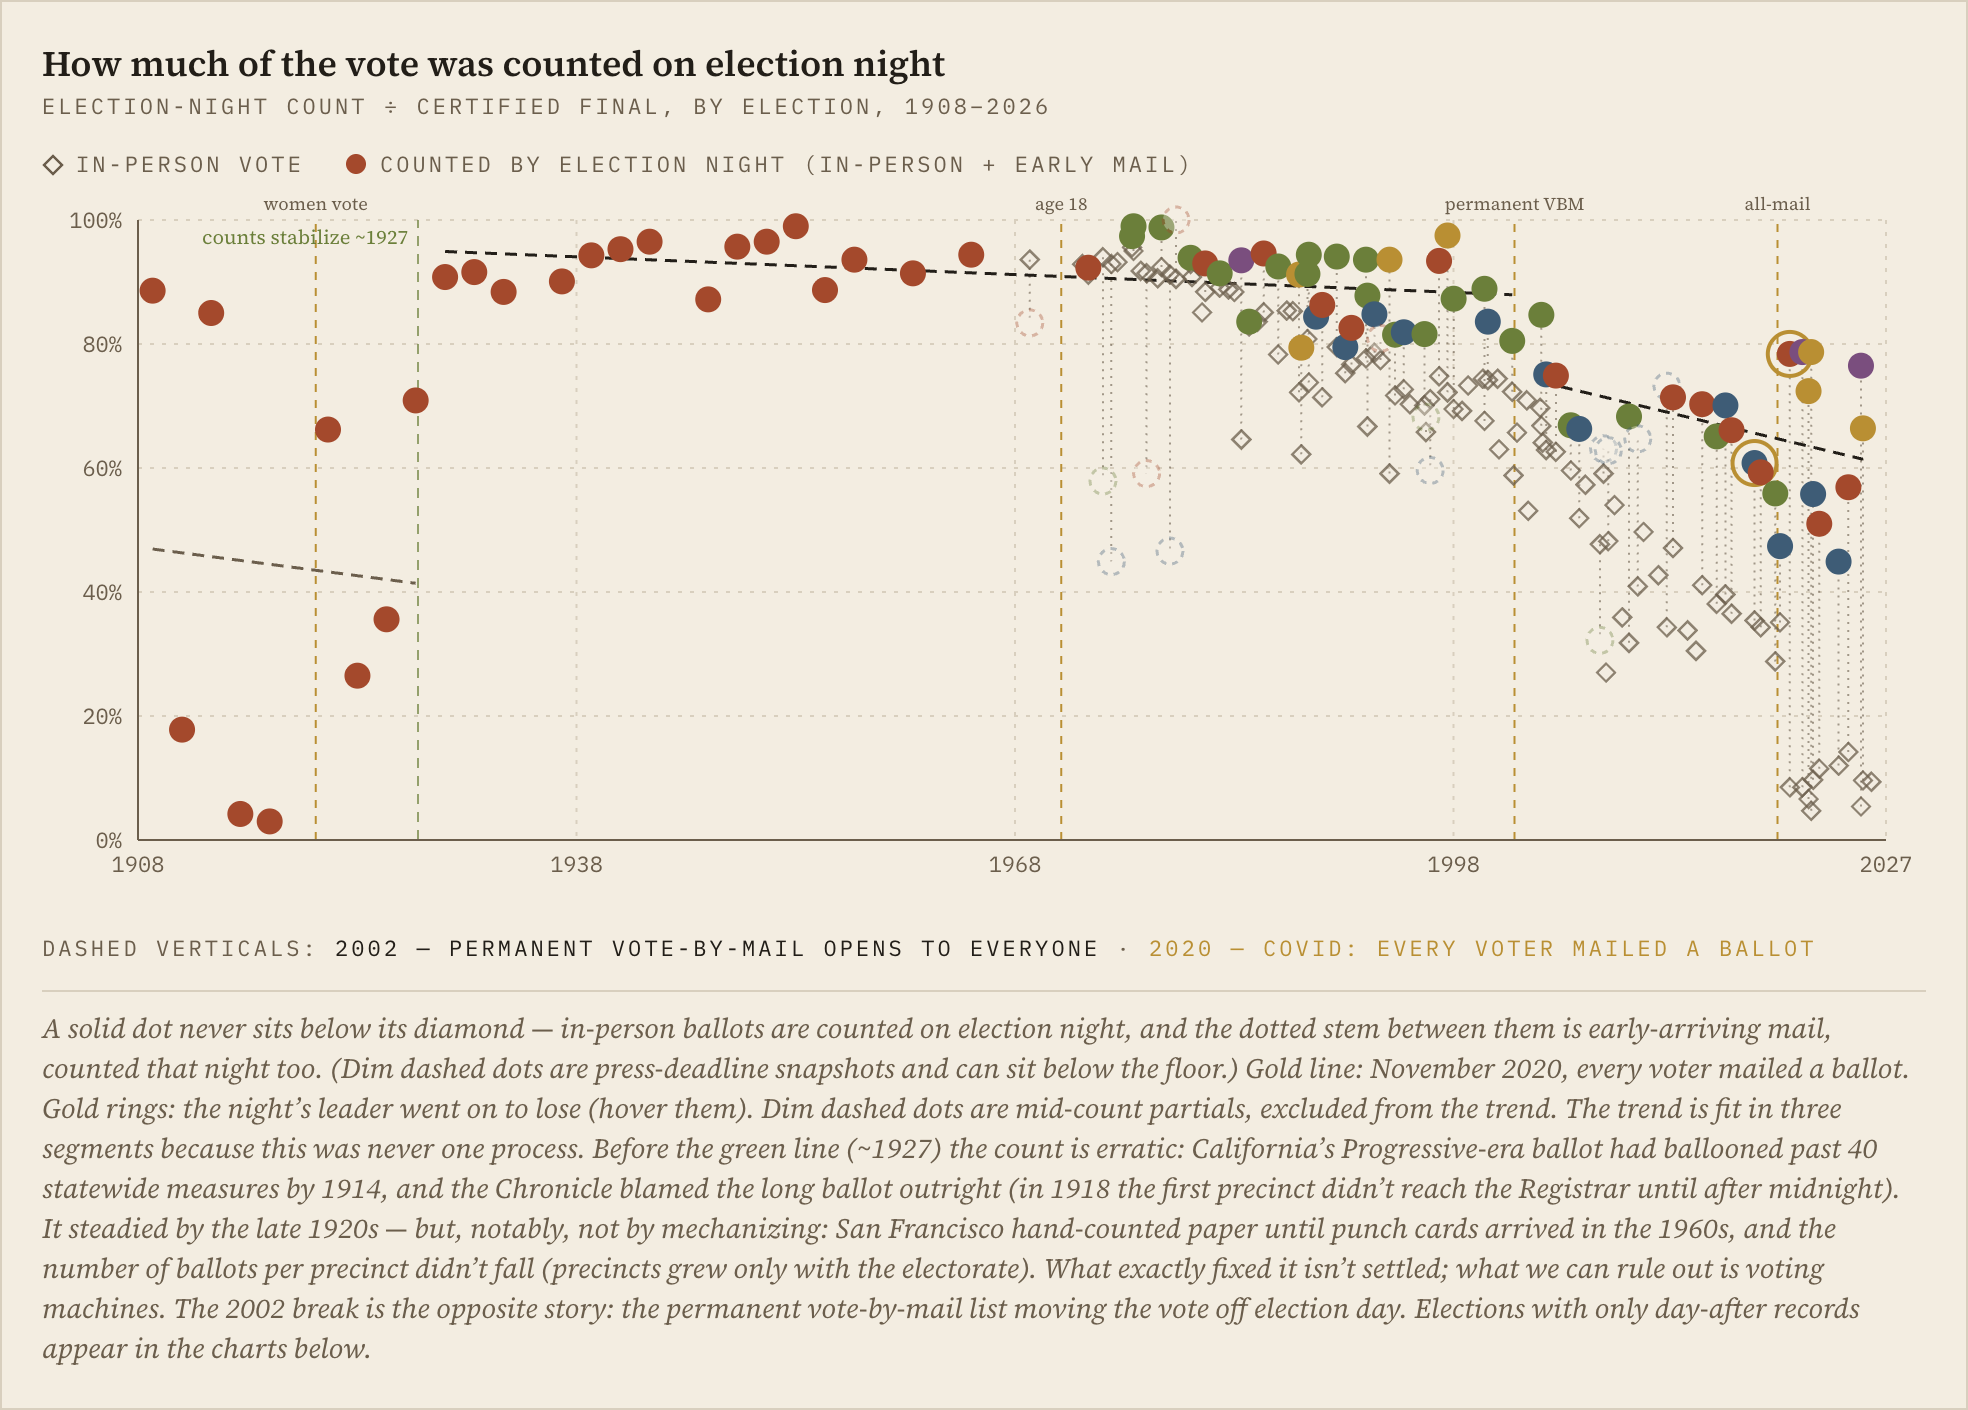
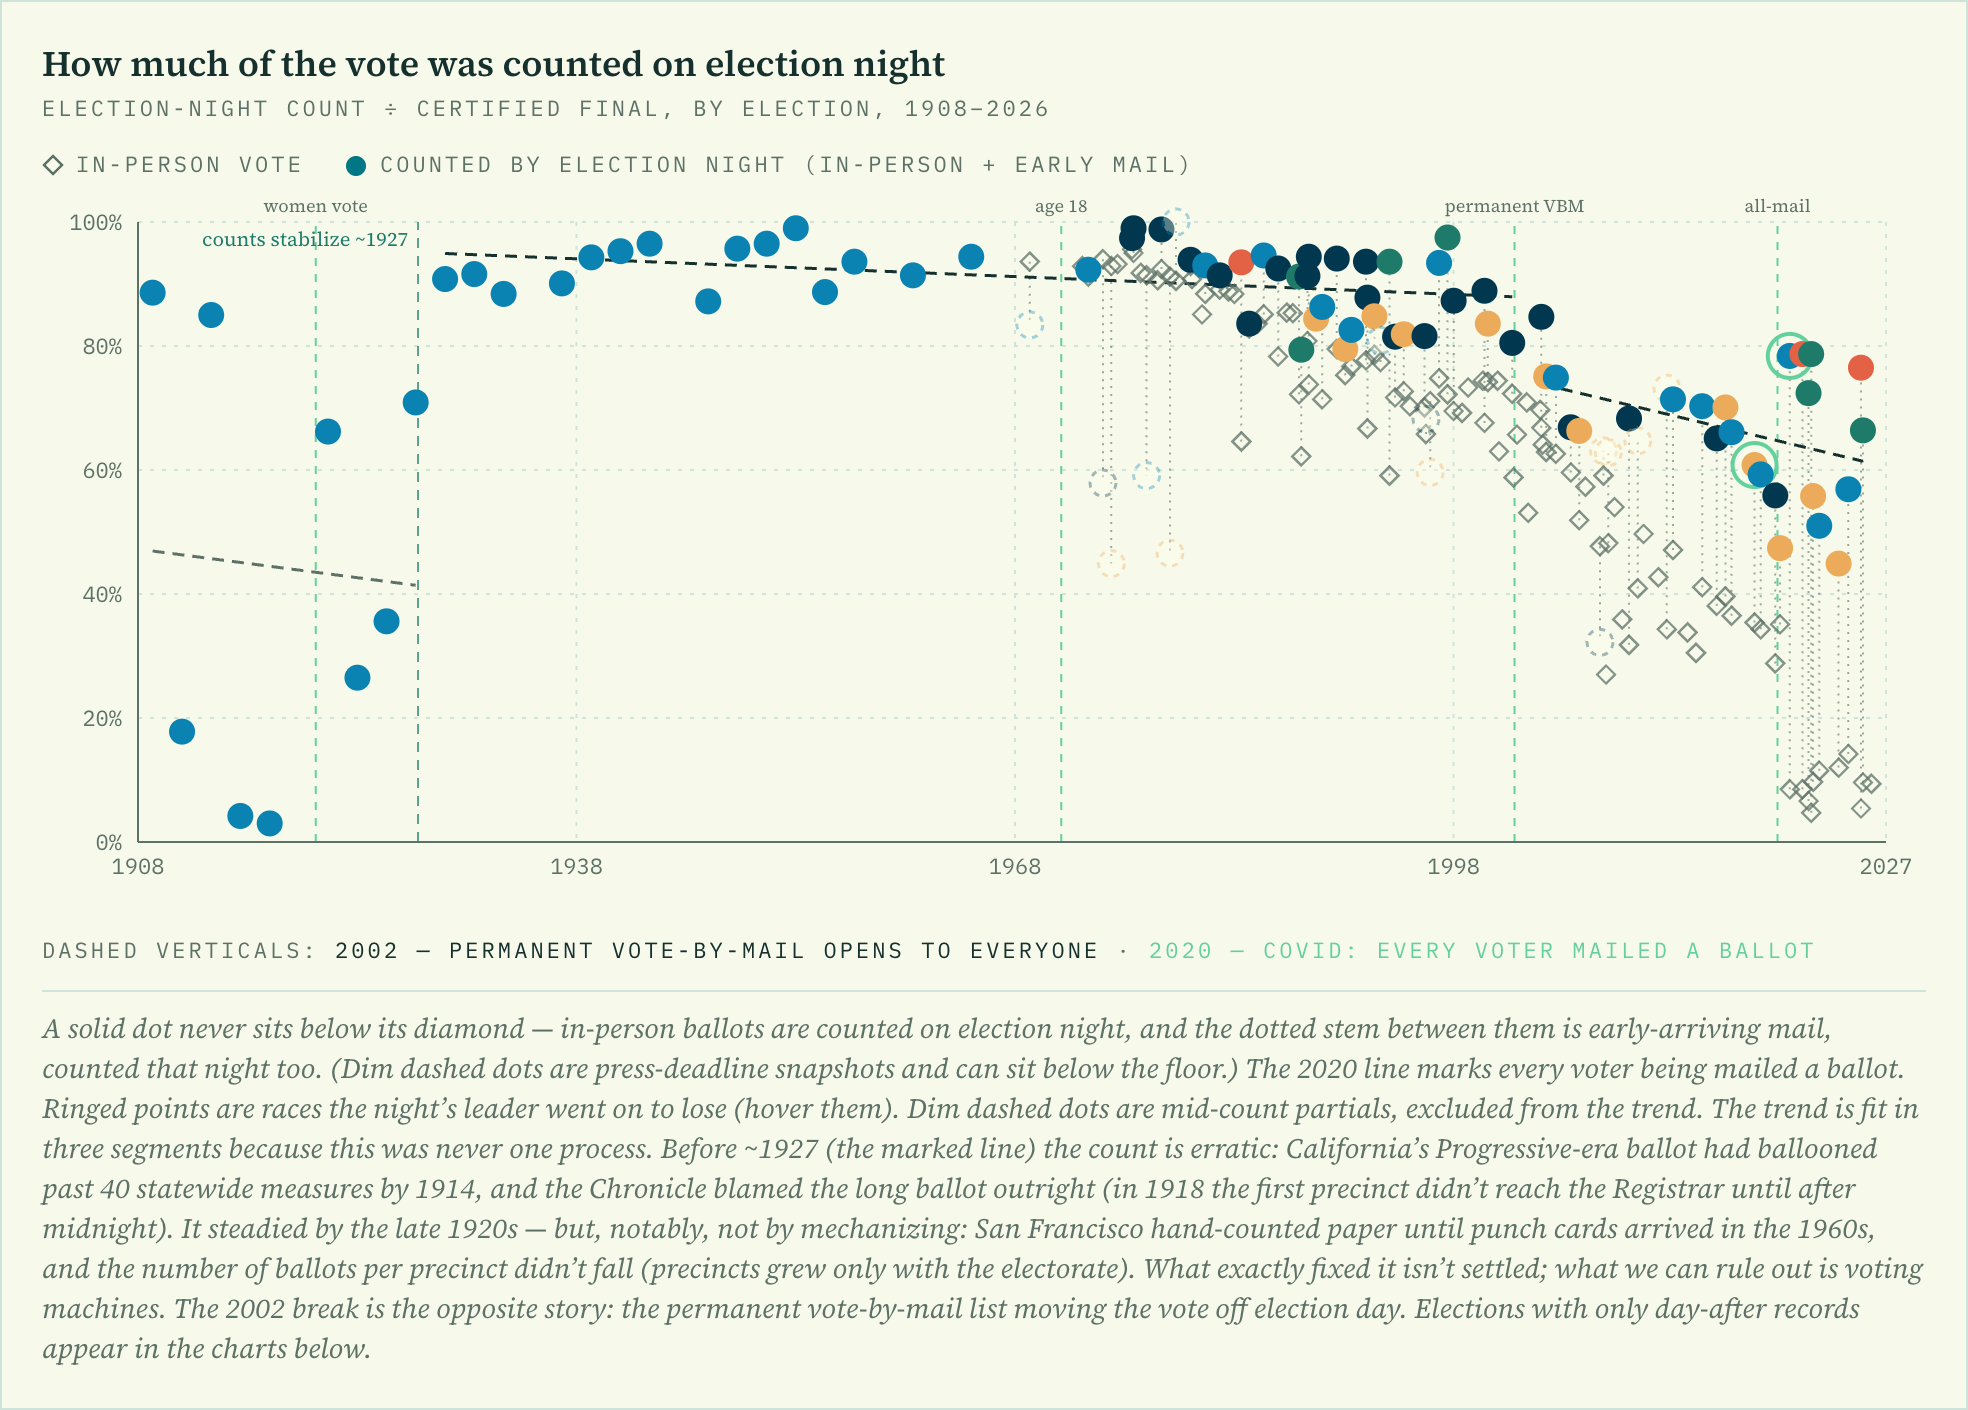
viz: regenerate README charts for the new palette; fix stale color words
Re-shoot docs/img/{night-share,vote-by-mail,franchise-funnel}.png against the
GrowSF-recolored charts. Also fix prose/caption color names left stale by the
rebrand: "Gold line/Gold rings" → neutral wording, "Recalls (purple) / specials
(gold)" → drop the now-wrong colors, "gold lines" → "milestone lines".

diff --git a/viz/src/components/NightShareChart.tsx b/viz/src/components/NightShareChart.tsx
@@ -161,12 +161,12 @@ export default function NightShareChart({
             A solid dot never sits below its diamond — in-person ballots are
             counted on election night, and the dotted stem between them is
             early-arriving mail, counted that night too. (Dim dashed dots are
-            press-deadline snapshots and can sit below the floor.) Gold line: November
-            2020, every voter mailed a ballot. Gold rings: the night’s leader
-            went on to lose (hover them). Dim dashed dots are mid-count
-            partials, excluded from the trend. The trend is fit in three
-            segments because this was never one process. Before the green line
-            (~1927) the count is erratic: California’s Progressive-era ballot had
+            press-deadline snapshots and can sit below the floor.) The 2020 line
+            marks every voter being mailed a ballot. Ringed points are races the
+            night’s leader went on to lose (hover them). Dim dashed dots are
+            mid-count partials, excluded from the trend. The trend is fit in three
+            segments because this was never one process. Before ~1927 (the marked
+            line) the count is erratic: California’s Progressive-era ballot had
             ballooned past 40 statewide measures by 1914, and the Chronicle
             blamed the long ballot outright (in 1918 the first precinct didn’t
             reach the Registrar until after midnight). It steadied by the late

diff --git a/viz/src/components/Story.tsx b/viz/src/components/Story.tsx
@@ -159,7 +159,7 @@ export default function Story() {
               are still in the mail. The ringed points are races the{" "}
               <em>election-night leader lost</em> — the 2018 mayor’s race and a
               2020 supervisor seat, decided by ballots counted days later.
-              Recalls (purple) and special elections (gold) sit above the trend:
+              Recalls and special elections sit above the trend:
               their electorates vote early by mail, so the night count catches
               more of them. Filter to primaries and generals and both slides —
               the 1910s and today’s — show their sharpest.{" "}
@@ -233,7 +233,7 @@ export default function Story() {
               voters already on the rolls, the answer is mostly no. Turnout
               swings with what’s on the ballot — presidential generals draw
               80%, off-year municipals barely 40% — and the all-mail era to
-              the right of the gold lines lands inside that same band. The 2020
+              the right of the milestone lines lands inside that same band. The 2020
               record was the nationwide presidential peak, not a vote-by-mail
               effect; the 2024 general fell back below 2016, and the 2024
               presidential primary was the lowest in the modern record.

diff --git a/viz/src/components/ui.tsx b/viz/src/components/ui.tsx
@@ -4,7 +4,7 @@ import { ReferenceLine } from "recharts";
 import { EVENTS, Fit } from "@/lib/data";
 
 /**
- * Gold dashed vertical lines for the shared franchise/voting EVENTS that fall
+ * Dashed vertical lines for the shared franchise/voting EVENTS that fall
  * within [min, max] — rendered identically in every chart. Use as a chart
  * child: {eventLines(1962, 2028)}
  */